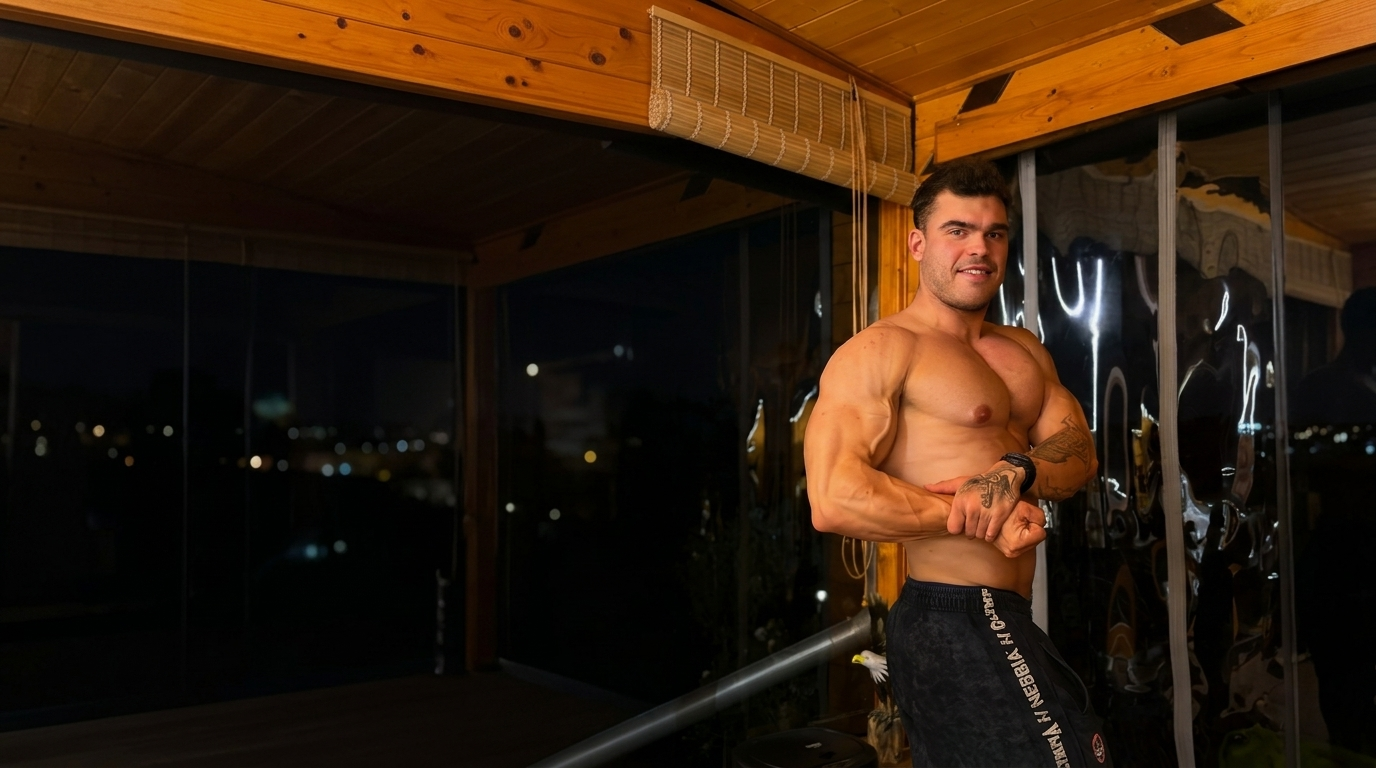
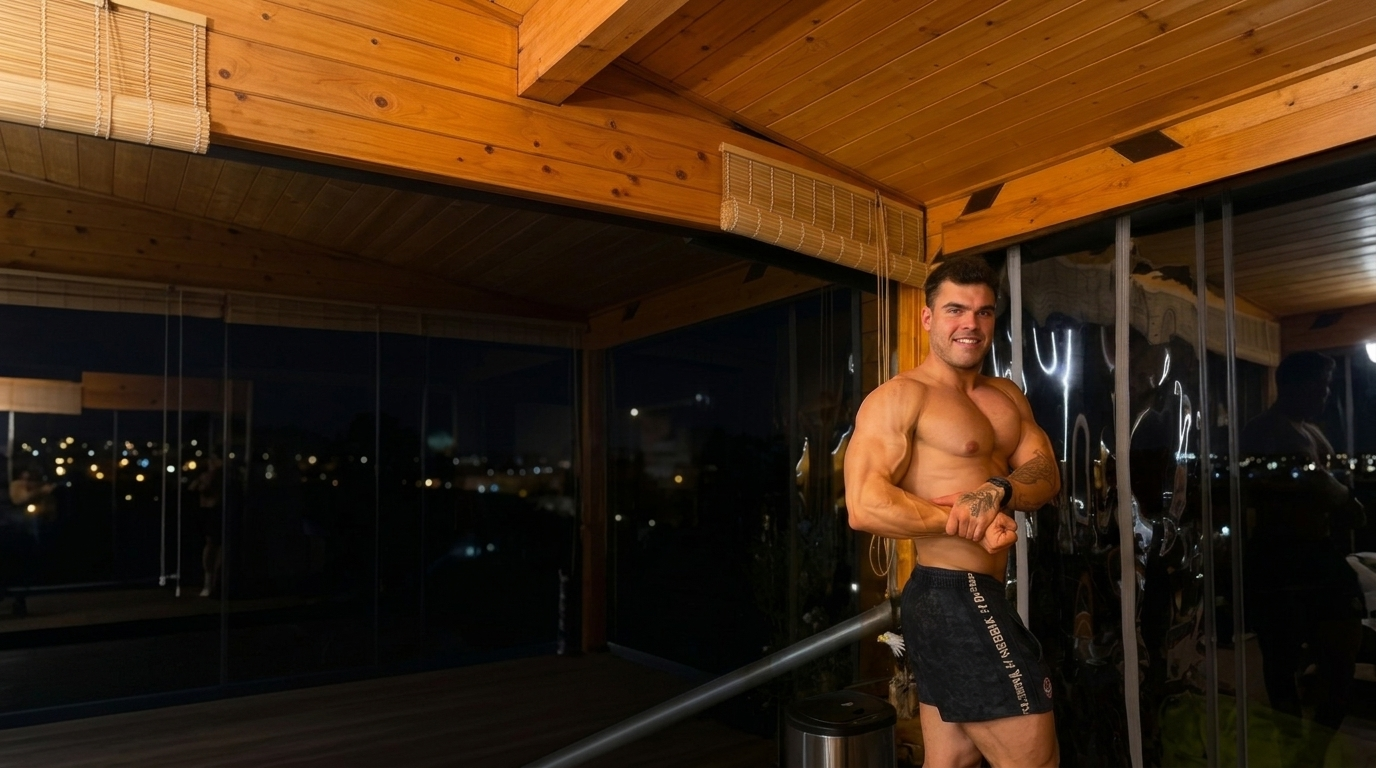
style: oddaleny hero zaber a prizpusobeni pro extra siroke monitory

diff --git a/style.css b/style.css
@@ -422,8 +422,11 @@ body {
 
 .hero-bg-media {
   position: absolute;
-  inset: 0;
-  width: 100%;
+  top: 0;
+  bottom: 0;
+  left: 50%;
+  transform: translateX(-50%);
+  width: min(100%, 1920px);
   z-index: 1;
   pointer-events: none;
 }
@@ -438,7 +441,7 @@ body {
   width: 100%;
   height: 100%;
   object-fit: cover;
-  object-position: 78% 18%;
+  object-position: 78% 70%;
   display: block;
   filter: brightness(0.8) contrast(1.04);
 }
@@ -448,8 +451,8 @@ body {
   inset: 0;
   pointer-events: none;
   background:
-    linear-gradient(90deg, #0d0d10 0%, rgba(13, 13, 16, 0.96) 28%, rgba(13, 13, 16, 0.8) 46%, rgba(13, 13, 16, 0.32) 66%, rgba(13, 13, 16, 0.22) 100%),
-    linear-gradient(180deg, rgba(13, 13, 16, 0.42) 0%, transparent 18%, transparent 78%, #0d0d10 100%);
+    linear-gradient(90deg, #0d0d10 0%, rgba(13, 13, 16, 0.96) 28%, rgba(13, 13, 16, 0.78) 46%, rgba(13, 13, 16, 0.28) 66%, rgba(13, 13, 16, 0.2) 88%, rgba(13, 13, 16, 0.72) 96%, #0d0d10 100%),
+    linear-gradient(180deg, rgba(13, 13, 16, 0.45) 0%, transparent 18%, transparent 78%, #0d0d10 100%);
 }
 
 .hero-container {
@@ -1685,7 +1688,10 @@ dialog.legal-dialog::backdrop {
 
   .hero-bg-media {
     position: relative;
-    inset: auto;
+    top: auto;
+    bottom: auto;
+    left: auto;
+    transform: none;
     width: 100%;
     height: 460px;
   }
